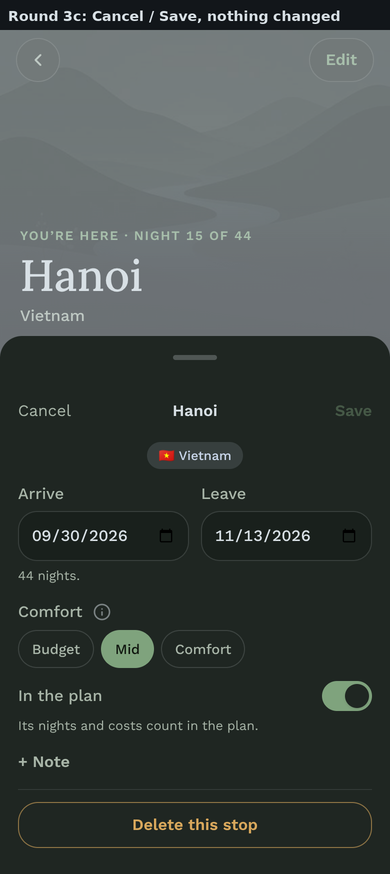
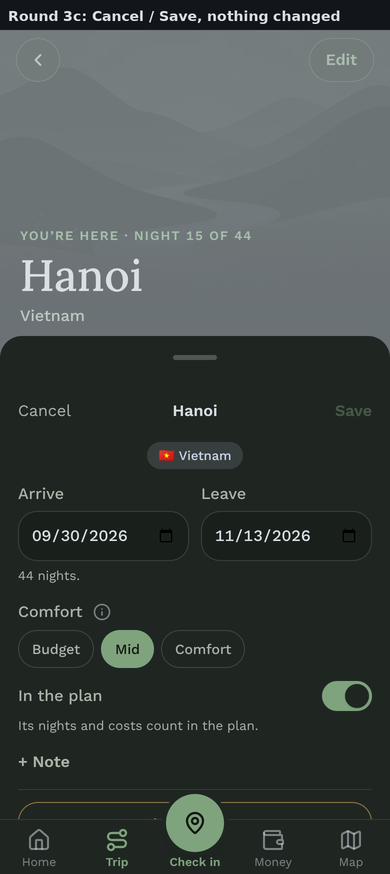
The stop page opens in place, no trip to the server (#200)
* The stop page opens in place, no trip to the server (Petra, 14 Oct)

The page is a layer over the timeline now, at /itinerary?stop=<id> through
history.pushState (Next's router follows it), instead of a route of its own:
opening a card and going back each asked the server for the page, a second or
two from Vietnam. The timeline waits underneath where it was scrolled, the
journey is already in the cache, so both directions paint at once; the
browser's back button closes it, a link to a stop still opens it, and the old
/itinerary/<id> address redirects.

Claude-Session: https://claude.ai/code/session_01Y4cNLRyg5RPwirJJGrzXfV

* Round 3c live; the in-place stop page in the notes, the plan and the pictures

Claude-Session: https://claude.ai/code/session_01Y4cNLRyg5RPwirJJGrzXfV

---------

Changed region(s): [[0.2769, 0.8959, 0.7385, 1.0], [0.8615, 0.9268, 0.9538, 1.0], [0.0615, 0.9268, 0.1538, 0.9886]]

diff --git a/product/src/components/trips/Timeline.tsx b/product/src/components/trips/Timeline.tsx
@@ -1,6 +1,7 @@
 'use client'
-import { useMemo, useState } from 'react'
+import { useCallback, useMemo, useRef, useState } from 'react'
 import Link from 'next/link'
+import { useSearchParams } from 'next/navigation'
 import { Plus, Settings } from 'lucide-react'
 import NewCountryBanner from './NewCountryBanner'
 import { PageHeader } from '@/components/ui/PageHeader'
@@ -31,6 +32,7 @@ import { TripGlobeScaffold } from './TripGlobeScaffold'
 import { LegStrip } from './LegStrip'
 import { StayRows } from './StayRows'
 import { StopMenu } from './StopMenu'
+import { StopPage } from './StopPage'
 import { TripSheets, type SheetState } from './TripSheets'
 import { useLongPress } from './useLongPress'
 import { useTripEdits } from './useTripEdits'
@@ -54,9 +56,11 @@ import { fmtDay, kicker } from './sheetKit'
 //   the nights on the right, the stays underneath, one row per stay with its
 //   nights, its money state and its total. No tick box: "In the plan" is a
 //   switch in the stop's form, and a maybe shows faded. Tapping the card
-//   opens the stop's page (round 3c, decision 4: look first, then edit); a
-//   long press, or a right click, opens the menu (Edit stop, Add stay, Add
-//   transport, in or out of the plan, Delete).
+//   opens the stop's page (round 3c, decision 4: look first, then edit), a
+//   layer over the timeline with ?stop=<id> in the URL, so it opens at once
+//   and the timeline waits underneath where it was; a long press, or a right
+//   click, opens the menu (Edit stop, Add stay, Add transport, in or out of
+//   the plan, Delete).
 // - "No bed 30 Nov → 13 Dec" is the amber row inside a stop, a warning, and
 //   tapping it opens Add stay with those dates already in.
 // - "+ Add stop" is a dashed row after the last stop, before the way home.
@@ -130,13 +134,14 @@ function Rail({ line, node, clipTop, clipBottom, nodeTop = 20 }: {
  * right, the stays underneath. The whole card is the link to the stop's page; a long press
  * (or a right click) opens the menu instead, for an editor.
  */
-function StopCard({ seg, maybe, state, todayIso, canEdit, fmt, onMenu }: {
+function StopCard({ seg, maybe, state, todayIso, canEdit, fmt, onOpen, onMenu }: {
   seg: Segment
   maybe: boolean
   state: TripState
   todayIso: string
   canEdit: boolean
   fmt: (n: number) => string
+  onOpen: () => void
   onMenu: () => void
 }) {
   const { handlers, firedRef } = useLongPress(onMenu, { enabled: canEdit })
@@ -147,10 +152,16 @@ function StopCard({ seg, maybe, state, todayIso, canEdit, fmt, onMenu }: {
   const isCurrent = inPlan && !!seg.arrive && !!seg.depart && seg.arrive <= todayIso && todayIso < seg.depart
   const prog = isCurrent && nn > 0 ? stopProgress(seg, todayIso) : null
   return (
-    <Link
-      href={`/itinerary/${seg.id}`}
+    <a
+      href={`?stop=${seg.id}`}
       {...handlers}
-      onClick={(e) => { if (firedRef.current) { e.preventDefault(); firedRef.current = false } }}
+      onClick={(e) => {
+        // A plain link for the browser (open in a new tab, copy the address); a tap opens the layer here.
+        if (e.metaKey || e.ctrlKey || e.shiftKey || e.button !== 0) return
+        e.preventDefault()
+        if (firedRef.current) { firedRef.current = false; return }
+        onOpen()
+      }}
       draggable={false}
       className={'lv-enter block select-none rounded-[var(--r)] bg-sf p-[18px] text-tx [-webkit-touch-callout:none] ' + (inPlan ? '' : 'opacity-60')}
     >
@@ -175,7 +186,7 @@ function StopCard({ seg, maybe, state, todayIso, canEdit, fmt, onMenu }: {
       <div className="mt-3 border-t border-ln">
         <StayRows seg={seg} state={state} todayIso={todayIso} fmt={fmt} inPlan={inPlan} />
       </div>
-    </Link>
+    </a>
   )
 }
 
@@ -231,6 +242,14 @@ export function Timeline() {
   const [sheet, setSheet] = useState<SheetState>(null)
   const [menuSeg, setMenuSeg] = useState<Segment | null>(null)
   const [wizardOpen, setWizardOpen] = useState(false)
+  // The open stop page, from the URL (?stop=<id>): pushed by a tap, so the browser's back closes it.
+  const openStopId = useSearchParams().get('stop')
+  const pushed = useRef(false)
+  const openStop = (id: string) => { pushed.current = true; window.history.pushState(null, '', `?stop=${id}`) }
+  const closeStop = useCallback(() => {
+    if (pushed.current) { pushed.current = false; window.history.back() }
+    else window.history.replaceState(null, '', window.location.pathname)
+  }, [])
   const todayIso = localISODate()
   const state = trip.data?.state
   // Home is the viewer's own (#58, migration 43), else the journey's.
@@ -280,6 +299,7 @@ export function Timeline() {
 
   return (
     <>
+    <div inert={!!openStopId}>
     <TripGlobeScaffold
       title={s.meta.tripName || 'Trip'}
       route={route}
@@ -370,6 +390,7 @@ export function Timeline() {
                   todayIso={todayIso}
                   canEdit={canEdit}
                   fmt={fmt}
+                  onOpen={() => openStop(seg.id)}
                   onMenu={() => setMenuSeg(seg)}
                 />
               </div>
@@ -417,6 +438,8 @@ export function Timeline() {
         </section>
       )}
     </TripGlobeScaffold>
+    </div>
+      {openStopId && <StopPage key={openStopId} id={openStopId} onBack={closeStop} />}
 
       <TripSheets sheet={sheet} setSheet={setSheet} state={s} tl={tl} cities={cities.data ?? []} cityIdx={cityIdx} edits={edits} />
       {menuSeg && (

diff --git a/product/src/components/trips/StopPage.tsx b/product/src/components/trips/StopPage.tsx
@@ -1,9 +1,9 @@
 'use client'
 import { useEffect, useMemo, useState } from 'react'
-import { useRouter } from 'next/navigation'
 import { ChevronLeft } from 'lucide-react'
 import { IconButton } from '@/components/ui/IconButton'
 import { Waiting } from '@/components/ui/TravelLoader'
+import { lockBodyScroll } from '@/lib/scrollLock'
 import { useTripScreen } from '@/lib/trips/useTripScreen'
 import { useTripRole } from '@/lib/trips/useTripRole'
 import { useHomeBase } from '@/lib/trips/useHomeBase'
@@ -25,15 +25,22 @@ import { useTripEdits } from './useTripEdits'
 // in ("Getting here") and out ("Leaving for Hanoi", or "Onward" / "Going
 // home"), and the note. "Edit" in the corner opens the stop's form; every row
 // opens its own. Tapping a card on the timeline comes here.
+//
+// It is a layer over the timeline, not a page of its own (Petra, 14 Oct: the
+// first cut was a route, and each open and each back asked the server for the
+// page, a second or two from Vietnam). The timeline stays underneath, where it
+// was scrolled; the URL carries ?stop=<id> through history.pushState, which
+// Next's router follows, so the browser's back button closes it too and a
+// link to a stop still opens it. The journey is already in the cache, so the
+// layer paints at once.
 
 const sectionLabel = 'text-[11.5px] font-semibold uppercase tracking-[.113em] text-ac2'
 
-export function StopPage({ id }: { id: string }) {
+export function StopPage({ id, onBack }: { id: string; onBack: () => void }) {
   const { trip, cities, cityIdx } = useTripScreen()
   const { canEdit } = useTripRole()
   const { fmt } = useMoney()
   const edits = useTripEdits()
-  const router = useRouter()
   const [sheet, setSheet] = useState<SheetState>(null)
   const todayIso = localISODate()
   const state = trip.data?.state
@@ -41,16 +48,19 @@ export function StopPage({ id }: { id: string }) {
   const tl = useMemo(() => (state ? buildTimeline(state, homeFor(profileHome, state.meta)) : null), [state, profileHome])
   const seg = state?.segments.find((x) => x.id === id)
   const gone = !trip.isPending && !seg
+  // The timeline underneath keeps its place; the layer scrolls on its own (the sheets' lock).
+  useEffect(() => lockBodyScroll(), [])
   // Deleted, here or on another device: say so, then back to the timeline (the phone's StopScreen).
   useEffect(() => {
     if (!gone) return
-    const t = setTimeout(() => router.replace('/itinerary'), 900)
+    const t = setTimeout(onBack, 900)
     return () => clearTimeout(t)
-  }, [gone, router])
+  }, [gone, onBack])
 
-  if (trip.isPending) return <Waiting label="Getting your journey" />
+  const layer = 'fixed inset-0 z-30 overflow-y-auto overscroll-contain bg-canvas pb-[calc(76px+env(safe-area-inset-bottom))]'
+  if (trip.isPending) return <div className={layer}><Waiting label="Getting your journey" /></div>
   if (!state || !tl || !seg) {
-    return <p className="px-4 py-16 text-center text-base text-tx2">This stop is no longer on the journey.</p>
+    return <div className={layer}><p className="px-4 py-16 text-center text-base text-tx2">This stop is no longer on the journey.</p></div>
   }
   const s = state
   const inPlan = seg.include !== false
@@ -77,12 +87,12 @@ export function StopPage({ id }: { id: string }) {
   }
 
   return (
-    <>
+    <div className={layer} role="region" aria-label={city}>
       {/* The hero: the wash over its base colour, the canvas fading in from 45 % down, the words at the bottom. */}
-      <div className="relative -mt-[env(safe-area-inset-top)] h-[calc(340px+env(safe-area-inset-top))] overflow-hidden bg-[#f0efe7] bg-[url(/wash/light.jpg)] bg-cover bg-bottom dark:bg-[#161a18] dark:bg-[url(/wash/dark.jpg)]">
+      <div className="relative h-[calc(340px+env(safe-area-inset-top))] overflow-hidden bg-[#f0efe7] bg-[url(/wash/light.jpg)] bg-cover bg-bottom dark:bg-[#161a18] dark:bg-[url(/wash/dark.jpg)]">
         <div aria-hidden className="absolute inset-0" style={{ background: 'linear-gradient(to bottom, transparent 45%, color-mix(in srgb, var(--canvas) 85%, transparent) 72%, var(--canvas) 100%)' }} />
         <div className="absolute inset-x-0 top-[env(safe-area-inset-top)] flex items-center justify-between px-4 pt-2">
-          <IconButton href={'/itinerary#stop-' + seg.id} label="Back to the timeline">
+          <IconButton onClick={onBack} label="Back to the timeline">
             <ChevronLeft aria-hidden className="size-5" strokeWidth={2.2} />
           </IconButton>
           {canEdit && (
@@ -118,7 +128,7 @@ export function StopPage({ id }: { id: string }) {
         )}
       </div>
 
-      <TripSheets sheet={sheet} setSheet={setSheet} state={s} tl={tl} cities={cities.data ?? []} cityIdx={cityIdx} edits={edits} onStopDeleted={() => router.replace('/itinerary')} />
-    </>
+      <TripSheets sheet={sheet} setSheet={setSheet} state={s} tl={tl} cities={cities.data ?? []} cityIdx={cityIdx} edits={edits} onStopDeleted={onBack} />
+    </div>
   )
 }

diff --git a/product/src/app/dev/trip-preview/page.tsx b/product/src/app/dev/trip-preview/page.tsx
@@ -19,10 +19,10 @@ import Preview from './Preview'
 // migration 43): the timeline starts and ends there instead of the journey's.
 // ?empty=1 is a journey with no stops yet (the no-stops card); ?end=2026-12-13
 // an end date the last stop reaches ("Going home" instead of "Onward");
-// ?stop=<stop id> the stop's own page (round 3c) instead of the timeline.
-export default async function TripPreviewPage({ searchParams }: { searchParams: Promise<{ maybe?: string; home?: string; empty?: string; end?: string; stop?: string }> }) {
+// ?stop=<stop id> opens that stop's page over the timeline (round 3c), as a tap does.
+export default async function TripPreviewPage({ searchParams }: { searchParams: Promise<{ maybe?: string; home?: string; empty?: string; end?: string }> }) {
   if (process.env.NODE_ENV !== 'development') notFound()
-  const { maybe, home, empty, end, stop } = await searchParams
+  const { maybe, home, empty, end } = await searchParams
   const today = new Date().toISOString().slice(0, 10)
   const base = fixtureTrip(today)
   const trip: Trip = {
@@ -54,7 +54,7 @@ export default async function TripPreviewPage({ searchParams }: { searchParams: 
   qc.setQueryData(qk.tripCities(names), cities.filter((c) => names.includes(c.city)))
   return (
     <HydrationBoundary state={dehydrate(qc)}>
-      <Preview stop={stop} />
+      <Preview />
     </HydrationBoundary>
   )
 }

diff --git a/product/src/app/(app)/itinerary/[stop]/page.tsx b/product/src/app/(app)/itinerary/[stop]/page.tsx
@@ -1,17 +1,9 @@
-import { dehydrate } from '@tanstack/react-query'
-import { HydrationBoundary } from '@/lib/query/HydrationBoundary'
-import { prefetchTripScreen } from '@/lib/trips/prefetch'
-import { StopPage } from '@/components/trips/StopPage'
+import { redirect } from 'next/navigation'
 
-// A stop's own page (round 3c, decision 4): /itinerary/<stop id>, opened by
-// tapping its card on the timeline. The same trip document as Trip, prefetched
-// the same way, so the page is there on the first paint.
+// The stop page was a route of its own for an hour on 14 Oct (#199); it is a
+// layer over the timeline now, at /itinerary?stop=<id>, so it opens without a
+// trip to the server. A link from then still lands on the stop.
 export default async function StopRoute({ params }: { params: Promise<{ stop: string }> }) {
   const { stop } = await params
-  const qc = await prefetchTripScreen()
-  return (
-    <HydrationBoundary state={dehydrate(qc)}>
-      <StopPage id={stop} />
-    </HydrationBoundary>
-  )
+  redirect(`/itinerary?stop=${encodeURIComponent(stop)}`)
 }

diff --git a/product/src/app/dev/trip-preview/Preview.tsx b/product/src/app/dev/trip-preview/Preview.tsx
@@ -3,18 +3,17 @@ import { TripScopeProvider } from '@/lib/trips/TripScope'
 import { MoneyProvider } from '@/lib/trips/Money'
 import { ConfirmProvider } from '@/components/Confirm'
 import { Timeline } from '@/components/trips/Timeline'
-import { StopPage } from '@/components/trips/StopPage'
 import { AppNav } from '@/components/AppNav'
 
 // The (app) layout's providers, minus auth — see money-preview/Preview.tsx
 // for why ConfirmProvider must be here (useConfirm fails closed).
-export default function Preview({ stop }: { stop?: string }) {
+export default function Preview() {
   return (
     <TripScopeProvider initialTripId="fixture" initialRole="owner">
       <MoneyProvider initialBase="HUF">
         <ConfirmProvider>
           <div className="pb-20">
-            {stop ? <StopPage id={stop} /> : <Timeline />}
+            <Timeline />
           </div>
           <AppNav showCheckIn pathname="/itinerary" />
         </ConfirmProvider>

diff --git a/CLAUDE.md b/CLAUDE.md
@@ -171,9 +171,11 @@ Petra is new to software work; Patrik is not. The product conventions are in
   (`TripGlobeScaffold.tsx`, a lean `TripGlobe.tsx` drawn in the phone's pale look from the country
   shapes; the Map tab empty, the planner globe kept in `MapClient.tsx` for development), is live since
   14 Oct (#193, Petra's test); her two findings, the names on the globe kept apart and the plane
-  in the replay, are live since 14 Oct (#194, Petra's test); the plane's spin is fixed after it (#195, live), then its heading (#196, live), then its pace and the leg drawing up to it (#197, live), then the route smooth again (#198); all live and tested by Petra on 14 Oct. 3c, the stop page (`StopPage.tsx` at
-  `/itinerary/<id>`, Cancel/Save bars on every form, the long-press menu on a card), was built
-  on 14 Oct. The source of the look is `feat/ios-foundation`,
+  in the replay, are live since 14 Oct (#194, Petra's test); the plane's spin is fixed after it (#195, live), then its heading (#196, live), then its pace and the leg drawing up to it (#197, live), then the route smooth again (#198); all live and tested by Petra on 14 Oct. 3c, the stop page (`StopPage.tsx`,
+  Cancel/Save bars on every form, the long-press menu on a card), is live since 14 Oct (#199,
+  Petra's test); her finding, the page slow to open and to leave (a route, each way a trip to
+  the server), is fixed: the page is a layer over the timeline at `/itinerary?stop=<id>`,
+  built 14 Oct. The source of the look is `feat/ios-foundation`,
   not the `ios/` on `main`.
 - Supabase jobs that need Patrik's machine (the CLI) wait in NOTES under
   "NEXT MACHINE SESSION": the subscription-alerts deploy check, the

diff --git a/docs/NOTES.md b/docs/NOTES.md
@@ -7,6 +7,23 @@ when a decision needs to survive the conversation it was made in.
 
 ## 2026-10-14
 
+### LIVE — Round 3c (#199, Petra's test) · BUILT — the stop page opens in place (Petra, 14 Oct)
+
+#199 is live (`9755bac`, Petra's test on the phone): the page works, but opening a card and
+going back were each "too slow to load". The page was a route of its own (`/itinerary/<id>`),
+so each open and each back asked the server for a page: the (app) layout's sign-in check and
+the trip prefetch, a second or two from Vietnam, with the TravelLoader in between. It is a
+layer over the timeline now (`StopPage.tsx`, `fixed inset-0`, the sheets' body lock), opened
+by a tap through `history.pushState('?stop=<id>')`, which Next's router follows
+(`useSearchParams` in `Timeline.tsx`): nothing is asked of the server, the journey is already
+in the cache, the timeline waits underneath where it was scrolled, and the browser's back
+button closes the layer as the ‹ button does. A cold load of `/itinerary?stop=<id>` opens it
+too; the old `/itinerary/<id>` redirects there. The dev preview's `?stop=` is the same
+mechanism. Round 6 (the zoom from the card to its page) gets easier: one document. Checked
+in the built app: no request leaves the browser on open or on back.
+
+iOS: nothing new.
+
 ### BUILT — Round 3c: the stop page, Cancel and Save on every form, the long-press menu (Petra, 14 Oct)
 
 Decision 4 of `docs/WEB-IOS-REDESIGN.md` (look first, then edit), as the phone's `StopPage`,

diff --git a/docs/WEB-IOS-REDESIGN.md b/docs/WEB-IOS-REDESIGN.md
@@ -178,6 +178,9 @@ The six questions this file first ended with, and the answers.
 
 ## Record
 
+- 14 Oct: round 3c live (#199, Petra's test on the phone). Her finding: the stop page slow to
+  open and to leave; it was a route, each way a trip to the server. It is a layer over the
+  timeline now, at `/itinerary?stop=<id>`, opened and closed without the server.
 - 14 Oct: round 3c built, the stop page as the phone's StopPage (the wash hero, the sections,
   "Edit" in the corner), Cancel and Save in the bar of every form with "Discard changes?", the
   long-press menu on a stop card (decision 4). The stop form lost its Stays list, as on the
